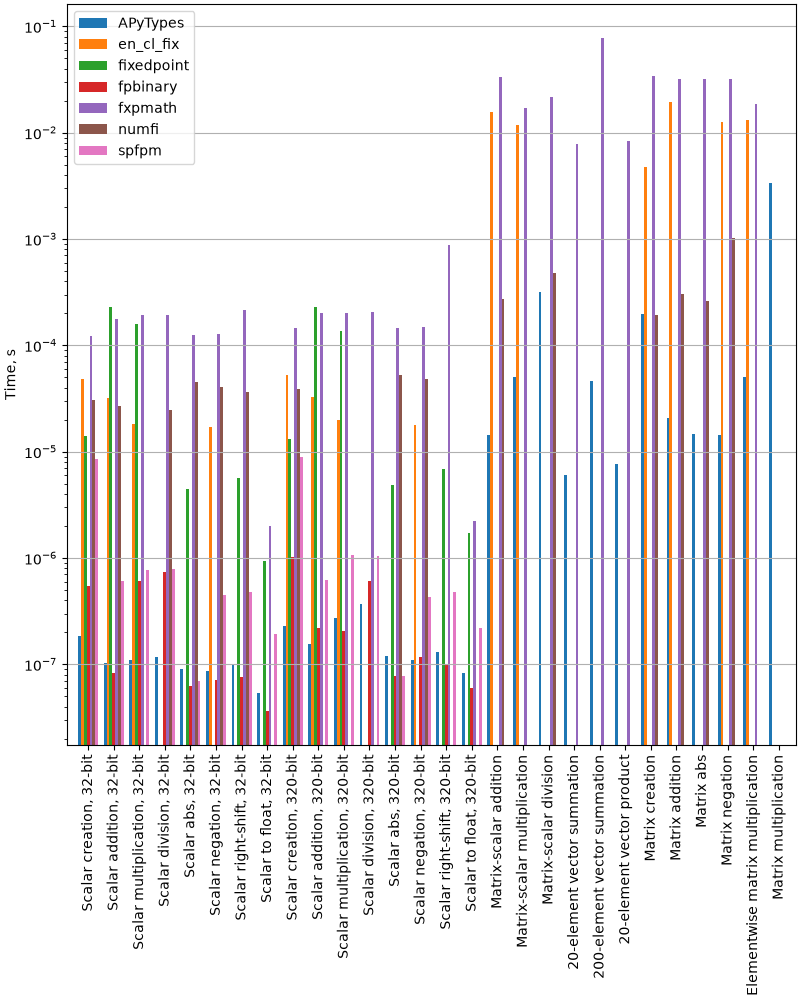
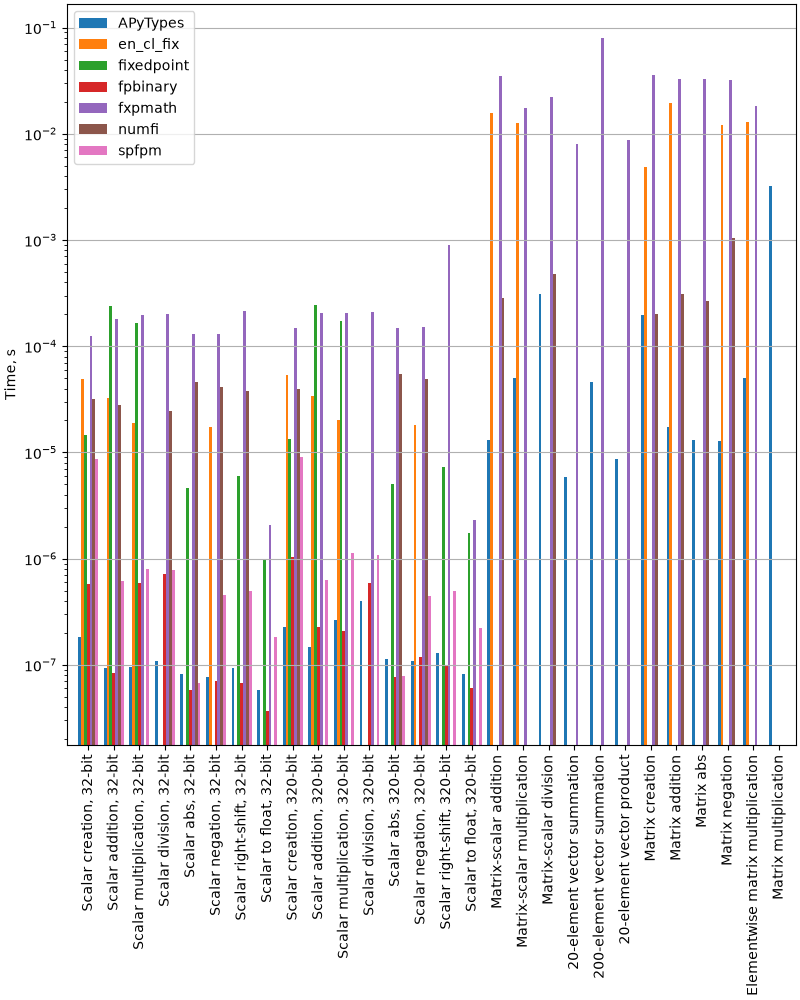
Deploy preview for PR 1066 🛫

Changed region(s): [[0.0312, 0.124, 0.0938, 0.155], [0.0312, 0.341, 0.0625, 0.372], [0.0312, 0.217, 0.0625, 0.248]]

diff --git a/pr-preview/pr-1066/sg_execution_times.html b/pr-preview/pr-1066/sg_execution_times.html
@@ -309,7 +309,7 @@
         <article role="main" id="furo-main-content">
           <section id="computation-times">
 <span id="sphx-glr-sg-execution-times"></span><h1>Computation times<a class="headerlink" href="#computation-times" title="Link to this heading">¶</a></h1>
-<p><strong>00:05.043</strong> total execution time for 9 files <strong>from all galleries</strong>:</p>
+<p><strong>00:05.072</strong> total execution time for 9 files <strong>from all galleries</strong>:</p>
 <div class="docutils container">
 <style scoped>
 <link href="https://cdnjs.cloudflare.com/ajax/libs/twitter-bootstrap/5.3.0/css/bootstrap.min.css" rel="stylesheet" />
@@ -332,15 +332,15 @@ $(document).ready( function () {
 </thead>
 <tbody>
 <tr class="row-even"><td><p><a class="reference internal" href="examples/test_fp8_mul.html#sphx-glr-examples-test-fp8-mul-py"><span class="std std-ref">cocotb integration</span></a> (<code class="docutils literal notranslate"><span class="pre">../examples/test_fp8_mul.py</span></code>)</p></td>
-<td><p>00:03.024</p></td>
+<td><p>00:02.991</p></td>
 <td><p>0.0</p></td>
 </tr>
 <tr class="row-odd"><td><p><a class="reference internal" href="examples/numpy_integration.html#sphx-glr-examples-numpy-integration-py"><span class="std std-ref">NumPy integration</span></a> (<code class="docutils literal notranslate"><span class="pre">../examples/numpy_integration.py</span></code>)</p></td>
-<td><p>00:00.956</p></td>
+<td><p>00:01.011</p></td>
 <td><p>0.0</p></td>
 </tr>
 <tr class="row-even"><td><p><a class="reference internal" href="examples/reciprocal_lookup.html#sphx-glr-examples-reciprocal-lookup-py"><span class="std std-ref">Reciprocal lookup table</span></a> (<code class="docutils literal notranslate"><span class="pre">../examples/reciprocal_lookup.py</span></code>)</p></td>
-<td><p>00:00.292</p></td>
+<td><p>00:00.294</p></td>
 <td><p>0.0</p></td>
 </tr>
 <tr class="row-odd"><td><p><a class="reference internal" href="examples/ode_solver.html#sphx-glr-examples-ode-solver-py"><span class="std std-ref">Floating-point ODE solver</span></a> (<code class="docutils literal notranslate"><span class="pre">../examples/ode_solver.py</span></code>)</p></td>
@@ -348,15 +348,15 @@ $(document).ready( function () {
 <td><p>0.0</p></td>
 </tr>
 <tr class="row-even"><td><p><a class="reference internal" href="examples/ldlt_matrix_inversion.html#sphx-glr-examples-ldlt-matrix-inversion-py"><span class="std std-ref">LDLT matrix inversion</span></a> (<code class="docutils literal notranslate"><span class="pre">../examples/ldlt_matrix_inversion.py</span></code>)</p></td>
-<td><p>00:00.222</p></td>
+<td><p>00:00.229</p></td>
 <td><p>0.0</p></td>
 </tr>
-<tr class="row-odd"><td><p><a class="reference internal" href="examples/approximate_multiplication.html#sphx-glr-examples-approximate-multiplication-py"><span class="std std-ref">Approximate floating-point multiplication</span></a> (<code class="docutils literal notranslate"><span class="pre">../examples/approximate_multiplication.py</span></code>)</p></td>
-<td><p>00:00.136</p></td>
+<tr class="row-odd"><td><p><a class="reference internal" href="examples/vectorrotation.html#sphx-glr-examples-vectorrotation-py"><span class="std std-ref">Fixed-point vector rotation</span></a> (<code class="docutils literal notranslate"><span class="pre">../examples/vectorrotation.py</span></code>)</p></td>
+<td><p>00:00.135</p></td>
 <td><p>0.0</p></td>
 </tr>
-<tr class="row-even"><td><p><a class="reference internal" href="examples/vectorrotation.html#sphx-glr-examples-vectorrotation-py"><span class="std std-ref">Fixed-point vector rotation</span></a> (<code class="docutils literal notranslate"><span class="pre">../examples/vectorrotation.py</span></code>)</p></td>
-<td><p>00:00.134</p></td>
+<tr class="row-even"><td><p><a class="reference internal" href="examples/approximate_multiplication.html#sphx-glr-examples-approximate-multiplication-py"><span class="std std-ref">Approximate floating-point multiplication</span></a> (<code class="docutils literal notranslate"><span class="pre">../examples/approximate_multiplication.py</span></code>)</p></td>
+<td><p>00:00.132</p></td>
 <td><p>0.0</p></td>
 </tr>
 <tr class="row-odd"><td><p><a class="reference internal" href="examples/apyfloat.html#sphx-glr-examples-apyfloat-py"><span class="std std-ref">APyFloat</span></a> (<code class="docutils literal notranslate"><span class="pre">../examples/apyfloat.py</span></code>)</p></td>

diff --git a/pr-preview/pr-1066/examples/sg_execution_times.html b/pr-preview/pr-1066/examples/sg_execution_times.html
@@ -309,7 +309,7 @@
         <article role="main" id="furo-main-content">
           <section id="computation-times">
 <span id="sphx-glr-examples-sg-execution-times"></span><h1>Computation times<a class="headerlink" href="#computation-times" title="Link to this heading">¶</a></h1>
-<p><strong>00:05.043</strong> total execution time for 9 files <strong>from examples</strong>:</p>
+<p><strong>00:05.072</strong> total execution time for 9 files <strong>from examples</strong>:</p>
 <div class="docutils container">
 <style scoped>
 <link href="https://cdnjs.cloudflare.com/ajax/libs/twitter-bootstrap/5.3.0/css/bootstrap.min.css" rel="stylesheet" />
@@ -332,15 +332,15 @@ $(document).ready( function () {
 </thead>
 <tbody>
 <tr class="row-even"><td><p><a class="reference internal" href="test_fp8_mul.html#sphx-glr-examples-test-fp8-mul-py"><span class="std std-ref">cocotb integration</span></a> (<code class="docutils literal notranslate"><span class="pre">test_fp8_mul.py</span></code>)</p></td>
-<td><p>00:03.024</p></td>
+<td><p>00:02.991</p></td>
 <td><p>0.0</p></td>
 </tr>
 <tr class="row-odd"><td><p><a class="reference internal" href="numpy_integration.html#sphx-glr-examples-numpy-integration-py"><span class="std std-ref">NumPy integration</span></a> (<code class="docutils literal notranslate"><span class="pre">numpy_integration.py</span></code>)</p></td>
-<td><p>00:00.956</p></td>
+<td><p>00:01.011</p></td>
 <td><p>0.0</p></td>
 </tr>
 <tr class="row-even"><td><p><a class="reference internal" href="reciprocal_lookup.html#sphx-glr-examples-reciprocal-lookup-py"><span class="std std-ref">Reciprocal lookup table</span></a> (<code class="docutils literal notranslate"><span class="pre">reciprocal_lookup.py</span></code>)</p></td>
-<td><p>00:00.292</p></td>
+<td><p>00:00.294</p></td>
 <td><p>0.0</p></td>
 </tr>
 <tr class="row-odd"><td><p><a class="reference internal" href="ode_solver.html#sphx-glr-examples-ode-solver-py"><span class="std std-ref">Floating-point ODE solver</span></a> (<code class="docutils literal notranslate"><span class="pre">ode_solver.py</span></code>)</p></td>
@@ -348,15 +348,15 @@ $(document).ready( function () {
 <td><p>0.0</p></td>
 </tr>
 <tr class="row-even"><td><p><a class="reference internal" href="ldlt_matrix_inversion.html#sphx-glr-examples-ldlt-matrix-inversion-py"><span class="std std-ref">LDLT matrix inversion</span></a> (<code class="docutils literal notranslate"><span class="pre">ldlt_matrix_inversion.py</span></code>)</p></td>
-<td><p>00:00.222</p></td>
+<td><p>00:00.229</p></td>
 <td><p>0.0</p></td>
 </tr>
-<tr class="row-odd"><td><p><a class="reference internal" href="approximate_multiplication.html#sphx-glr-examples-approximate-multiplication-py"><span class="std std-ref">Approximate floating-point multiplication</span></a> (<code class="docutils literal notranslate"><span class="pre">approximate_multiplication.py</span></code>)</p></td>
-<td><p>00:00.136</p></td>
+<tr class="row-odd"><td><p><a class="reference internal" href="vectorrotation.html#sphx-glr-examples-vectorrotation-py"><span class="std std-ref">Fixed-point vector rotation</span></a> (<code class="docutils literal notranslate"><span class="pre">vectorrotation.py</span></code>)</p></td>
+<td><p>00:00.135</p></td>
 <td><p>0.0</p></td>
 </tr>
-<tr class="row-even"><td><p><a class="reference internal" href="vectorrotation.html#sphx-glr-examples-vectorrotation-py"><span class="std std-ref">Fixed-point vector rotation</span></a> (<code class="docutils literal notranslate"><span class="pre">vectorrotation.py</span></code>)</p></td>
-<td><p>00:00.134</p></td>
+<tr class="row-even"><td><p><a class="reference internal" href="approximate_multiplication.html#sphx-glr-examples-approximate-multiplication-py"><span class="std std-ref">Approximate floating-point multiplication</span></a> (<code class="docutils literal notranslate"><span class="pre">approximate_multiplication.py</span></code>)</p></td>
+<td><p>00:00.132</p></td>
 <td><p>0.0</p></td>
 </tr>
 <tr class="row-odd"><td><p><a class="reference internal" href="apyfloat.html#sphx-glr-examples-apyfloat-py"><span class="std std-ref">APyFloat</span></a> (<code class="docutils literal notranslate"><span class="pre">apyfloat.py</span></code>)</p></td>

diff --git a/pr-preview/pr-1066/examples/numpy_integration.html b/pr-preview/pr-1066/examples/numpy_integration.html
@@ -348,7 +348,7 @@ to download the full example code.</p>
 </span><a class="sphx-glr-backref-module-matplotlib-figure sphx-glr-backref-type-py-method reference external" href="https://matplotlib.org/stable/api/_as_gen/matplotlib.figure.Figure.tight_layout.html#matplotlib.figure.Figure.tight_layout" title="matplotlib.figure.Figure.tight_layout"><span class="n">fig</span><span class="o">.</span><span class="n">tight_layout</span></a><span class="p">(</span><span class="p">)</span><span class="w">
 </span><a class="sphx-glr-backref-module-matplotlib-figure sphx-glr-backref-type-py-method reference external" href="https://matplotlib.org/stable/api/_as_gen/matplotlib.figure.Figure.show.html#matplotlib.figure.Figure.show" title="matplotlib.figure.Figure.show"><span class="n">fig</span><span class="o">.</span><span class="n">show</span></a><span class="p">(</span><span class="p">)</span><span class="w">
 </span></pre></div></div>
-<img src="../_images/sphx_glr_numpy_integration_001.png" srcset="../_images/sphx_glr_numpy_integration_001.png" alt="Original pulse, Filter impulse response, Filtered signal" class = "sphx-glr-single-img"/><p class="sphx-glr-timing"><strong>Total running time of the script:</strong> (0 minutes 0.956 seconds)</p>
+<img src="../_images/sphx_glr_numpy_integration_001.png" srcset="../_images/sphx_glr_numpy_integration_001.png" alt="Original pulse, Filter impulse response, Filtered signal" class = "sphx-glr-single-img"/><p class="sphx-glr-timing"><strong>Total running time of the script:</strong> (0 minutes 1.011 seconds)</p>
 <div class="sphx-glr-footer sphx-glr-footer-example docutils container" id="sphx-glr-download-examples-numpy-integration-py">
 <div class="sphx-glr-download sphx-glr-download-jupyter docutils container">
 <p><a class="reference download internal" download="" href="../_downloads/6c8a751a95e4cbae2803e2f5a14ede13/numpy_integration.ipynb"><code class="xref download docutils literal notranslate"><span class="pre">Download</span> <span class="pre">Jupyter</span> <span class="pre">notebook:</span> <span class="pre">numpy_integration.ipynb</span></code></a></p>

diff --git a/pr-preview/pr-1066/examples/reciprocal_lookup.html b/pr-preview/pr-1066/examples/reciprocal_lookup.html
@@ -453,7 +453,7 @@ single-precision floating-point representation.</p>
 </span><a class="sphx-glr-backref-module-matplotlib-axes sphx-glr-backref-type-py-method reference external" href="https://matplotlib.org/stable/api/_as_gen/matplotlib.axes.Axes.set_title.html#matplotlib.axes.Axes.set_title" title="matplotlib.axes.Axes.set_title"><span class="n">ax</span><span class="o">.</span><span class="n">set_title</span></a><span class="p">(</span><span class="s2">&quot;</span><span class="s2">Approximation errors</span><span class="s2">&quot;</span><span class="p">)</span><span class="w">
 </span><a class="sphx-glr-backref-module-matplotlib-pyplot sphx-glr-backref-type-py-function reference external" href="https://matplotlib.org/stable/api/_as_gen/matplotlib.pyplot.show.html#matplotlib.pyplot.show" title="matplotlib.pyplot.show"><span class="n">plt</span><span class="o">.</span><span class="n">show</span></a><span class="p">(</span><span class="p">)</span><span class="w">
 </span></pre></div></div>
-<img src="../_images/sphx_glr_reciprocal_lookup_002.png" srcset="../_images/sphx_glr_reciprocal_lookup_002.png" alt="Approximation errors" class = "sphx-glr-single-img"/><p class="sphx-glr-timing"><strong>Total running time of the script:</strong> (0 minutes 0.292 seconds)</p>
+<img src="../_images/sphx_glr_reciprocal_lookup_002.png" srcset="../_images/sphx_glr_reciprocal_lookup_002.png" alt="Approximation errors" class = "sphx-glr-single-img"/><p class="sphx-glr-timing"><strong>Total running time of the script:</strong> (0 minutes 0.294 seconds)</p>
 <div class="sphx-glr-footer sphx-glr-footer-example docutils container" id="sphx-glr-download-examples-reciprocal-lookup-py">
 <div class="sphx-glr-download sphx-glr-download-jupyter docutils container">
 <p><a class="reference download internal" download="" href="../_downloads/4cfac77f9d94b4d258ee368487d4b60c/reciprocal_lookup.ipynb"><code class="xref download docutils literal notranslate"><span class="pre">Download</span> <span class="pre">Jupyter</span> <span class="pre">notebook:</span> <span class="pre">reciprocal_lookup.ipynb</span></code></a></p>

diff --git a/pr-preview/pr-1066/examples/vectorrotation.html b/pr-preview/pr-1066/examples/vectorrotation.html
@@ -382,7 +382,7 @@ using different number of fractional bits and different quantization schemes.</p
 </span><a class="sphx-glr-backref-module-matplotlib-figure sphx-glr-backref-type-py-method reference external" href="https://matplotlib.org/stable/api/_as_gen/matplotlib.figure.Figure.legend.html#matplotlib.figure.Figure.legend" title="matplotlib.figure.Figure.legend"><span class="n">fig</span><span class="o">.</span><span class="n">legend</span></a><span class="p">(</span><span class="n">ncols</span><span class="o">=</span><span class="mi">3</span><span class="p">,</span> <span class="n">loc</span><span class="o">=</span><span class="s2">&quot;</span><span class="s2">upper center</span><span class="s2">&quot;</span><span class="p">)</span><span class="w">
 </span><a class="sphx-glr-backref-module-matplotlib-pyplot sphx-glr-backref-type-py-function reference external" href="https://matplotlib.org/stable/api/_as_gen/matplotlib.pyplot.show.html#matplotlib.pyplot.show" title="matplotlib.pyplot.show"><span class="n">plt</span><span class="o">.</span><span class="n">show</span></a><span class="p">(</span><span class="p">)</span><span class="w">
 </span></pre></div></div>
-<p class="sphx-glr-timing"><strong>Total running time of the script:</strong> (0 minutes 0.134 seconds)</p>
+<p class="sphx-glr-timing"><strong>Total running time of the script:</strong> (0 minutes 0.135 seconds)</p>
 <div class="sphx-glr-footer sphx-glr-footer-example docutils container" id="sphx-glr-download-examples-vectorrotation-py">
 <div class="sphx-glr-download sphx-glr-download-jupyter docutils container">
 <p><a class="reference download internal" download="" href="../_downloads/00bb7b14234d2c6c8b993ab12be990af/vectorrotation.ipynb"><code class="xref download docutils literal notranslate"><span class="pre">Download</span> <span class="pre">Jupyter</span> <span class="pre">notebook:</span> <span class="pre">vectorrotation.ipynb</span></code></a></p>

diff --git a/pr-preview/pr-1066/examples/approximate_multiplication.html b/pr-preview/pr-1066/examples/approximate_multiplication.html
@@ -361,7 +361,7 @@ The approximation is based on Mitchell’s logarithm approximation and the refer
 </span><span class="w">
 </span><a class="sphx-glr-backref-module-matplotlib-pyplot sphx-glr-backref-type-py-function reference external" href="https://matplotlib.org/stable/api/_as_gen/matplotlib.pyplot.show.html#matplotlib.pyplot.show" title="matplotlib.pyplot.show"><span class="n">plt</span><span class="o">.</span><span class="n">show</span></a><span class="p">(</span><span class="p">)</span><span class="w">
 </span></pre></div></div>
-<img src="../_images/sphx_glr_approximate_multiplication_001.png" srcset="../_images/sphx_glr_approximate_multiplication_001.png" alt="Error" class = "sphx-glr-single-img"/><p class="sphx-glr-timing"><strong>Total running time of the script:</strong> (0 minutes 0.136 seconds)</p>
+<img src="../_images/sphx_glr_approximate_multiplication_001.png" srcset="../_images/sphx_glr_approximate_multiplication_001.png" alt="Error" class = "sphx-glr-single-img"/><p class="sphx-glr-timing"><strong>Total running time of the script:</strong> (0 minutes 0.132 seconds)</p>
 <div class="sphx-glr-footer sphx-glr-footer-example docutils container" id="sphx-glr-download-examples-approximate-multiplication-py">
 <div class="sphx-glr-download sphx-glr-download-jupyter docutils container">
 <p><a class="reference download internal" download="" href="../_downloads/2dda482b521af00739685cad5c275e5f/approximate_multiplication.ipynb"><code class="xref download docutils literal notranslate"><span class="pre">Download</span> <span class="pre">Jupyter</span> <span class="pre">notebook:</span> <span class="pre">approximate_multiplication.ipynb</span></code></a></p>

diff --git a/pr-preview/pr-1066/examples/test_fp8_mul.html b/pr-preview/pr-1066/examples/test_fp8_mul.html
@@ -425,7 +425,7 @@ Below is an exhaustive test of an eight-bit floating-point multiplier with round
 <span class="k">end</span><span class="w"> </span><span class="nc">arch</span><span class="p">;</span>
 </pre></div>
 </div>
-<p class="sphx-glr-timing"><strong>Total running time of the script:</strong> (0 minutes 3.024 seconds)</p>
+<p class="sphx-glr-timing"><strong>Total running time of the script:</strong> (0 minutes 2.991 seconds)</p>
 <div class="sphx-glr-footer sphx-glr-footer-example docutils container" id="sphx-glr-download-examples-test-fp8-mul-py">
 <div class="sphx-glr-download sphx-glr-download-jupyter docutils container">
 <p><a class="reference download internal" download="" href="../_downloads/95cd391970f13461ba86e0fd415cb9b3/test_fp8_mul.ipynb"><code class="xref download docutils literal notranslate"><span class="pre">Download</span> <span class="pre">Jupyter</span> <span class="pre">notebook:</span> <span class="pre">test_fp8_mul.ipynb</span></code></a></p>

diff --git a/pr-preview/pr-1066/examples/ldlt_matrix_inversion.html b/pr-preview/pr-1066/examples/ldlt_matrix_inversion.html
@@ -502,7 +502,7 @@ Skipping plot for exp_bits=2, bias_offset=2 due to NaN values.
 Skipping plot for exp_bits=3, bias_offset=2 due to NaN values.
 </pre></div>
 </div>
-<p class="sphx-glr-timing"><strong>Total running time of the script:</strong> (0 minutes 0.222 seconds)</p>
+<p class="sphx-glr-timing"><strong>Total running time of the script:</strong> (0 minutes 0.229 seconds)</p>
 <div class="sphx-glr-footer sphx-glr-footer-example docutils container" id="sphx-glr-download-examples-ldlt-matrix-inversion-py">
 <div class="sphx-glr-download sphx-glr-download-jupyter docutils container">
 <p><a class="reference download internal" download="" href="../_downloads/8a14ac5a6ba78ffa6971f587ef60ac9f/ldlt_matrix_inversion.ipynb"><code class="xref download docutils literal notranslate"><span class="pre">Download</span> <span class="pre">Jupyter</span> <span class="pre">notebook:</span> <span class="pre">ldlt_matrix_inversion.ipynb</span></code></a></p>
